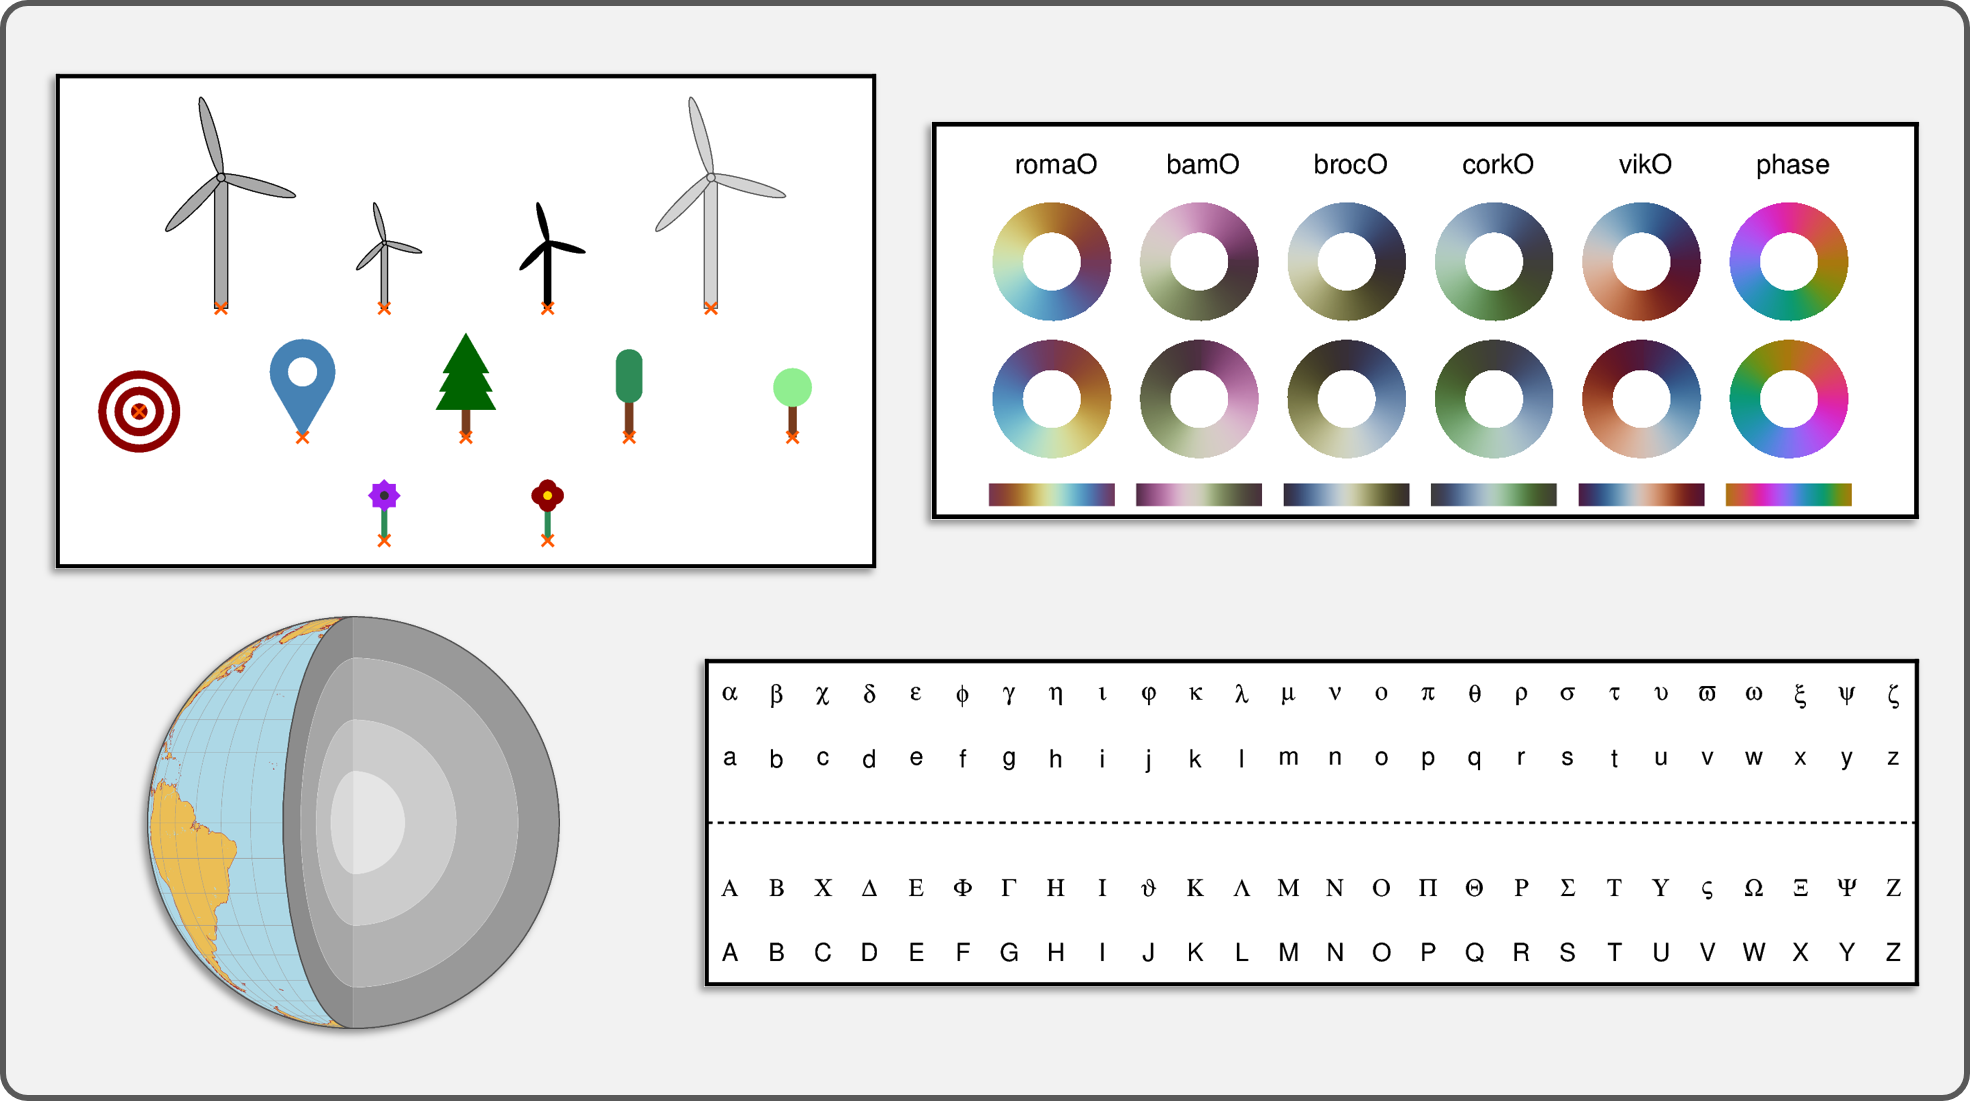
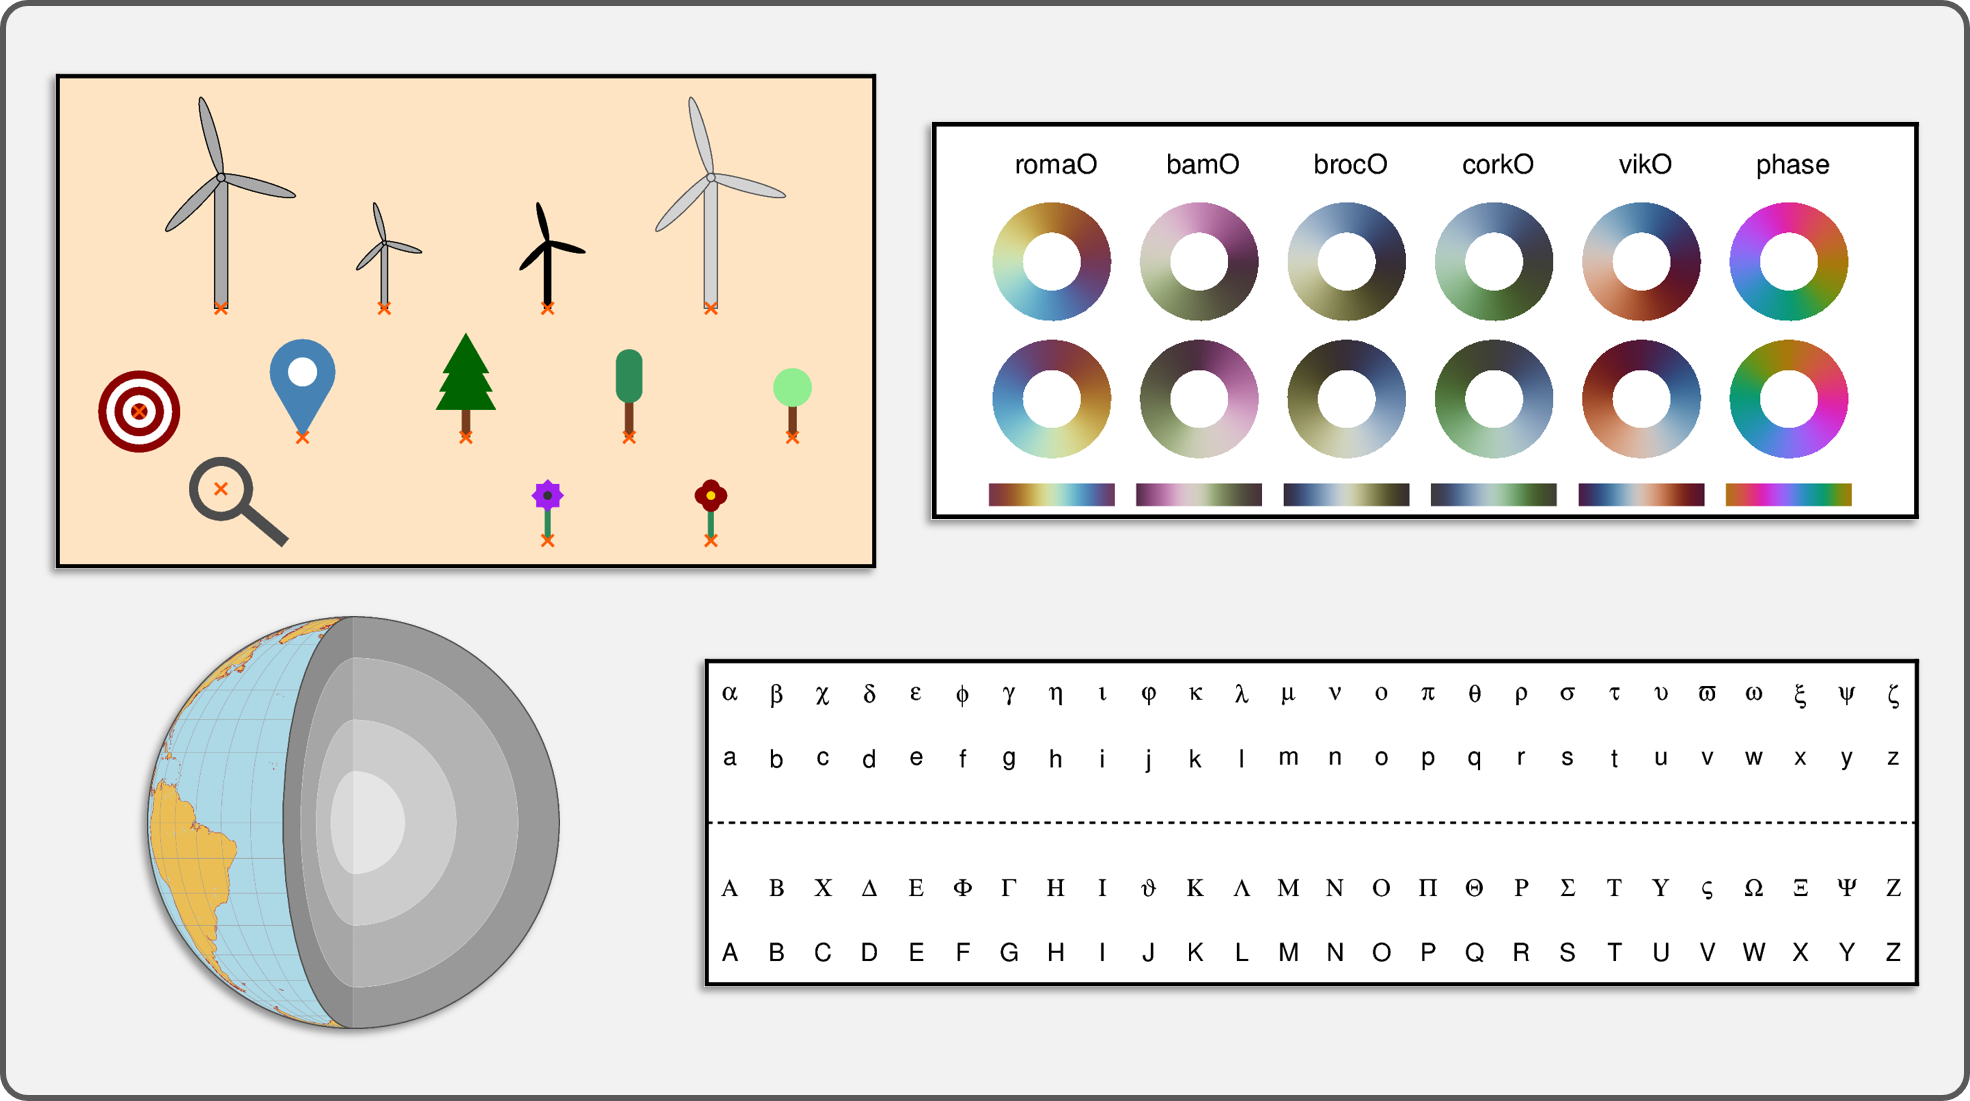
Add lense symbol, use Unix line endings

Changed region(s): [[0.031, 0.0618, 0.4645, 0.525]]

diff --git a/000_general_stuff/01_custom_symbols/custom_symbols.py b/000_general_stuff/01_custom_symbols/custom_symbols.py
@@ -11,6 +11,7 @@
 # History
 # - Created: 2024/05/16
 # - Updated: 2025/08/02 - Add more symbols
+# - Updated: 2025/08/13 - Add more symbols
 # -----------------------------------------------------------------------------
 # Versions
 # - PyGMT v0.16.0 -> https://www.pygmt.org/v0.16.0/ | https://www.pygmt.org/
@@ -27,7 +28,7 @@ import pygmt as gmt
 
 
 fig = gmt.Figure()
-fig.basemap(region=[-5, 5, -4, 5.5], projection="X10c/6c", frame=0)
+fig.basemap(region=[-5, 5, -4, 5.5], projection="X10c/6c", frame=[0, "+gbisque"])
 
 fig.plot(x=-3, y=1, style="kwindturbine_yf.def/1c", fill="darkgray", pen="black")
 fig.plot(x=-1, y=1, style="kwindturbine_yf.def/0.5c", fill="darkgray", pen="black")
@@ -40,13 +41,15 @@ fig.plot(x=0, y=-1.5, style="kpinetree_yf.def/1c", fill="darkgreen")
 fig.plot(x=2, y=-1.5, style="kpoplar_yf.def/1c", fill="seagreen")
 fig.plot(x=4, y=-1.5, style="ktree_circle_yf.def/1c", fill="lightgreen")
 
-fig.plot(x=-1, y=-3.5, style="kflower_square_yf.def/1c", fill="purple")
-fig.plot(x=1, y=-3.5, style="kflower_circle_yf.def/1c", fill="darkred")
+fig.plot(x=1, y=-3.5, style="kflower_square_yf.def/1c", fill="purple")
+fig.plot(x=3, y=-3.5, style="kflower_circle_yf.def/1c", fill="darkred")
+
+fig.plot(x=-3, y=-2.5, style="klense_yf.def/1.5c", pen="3p,gray30")
 
 # Mark plotting points
 fig.plot(
-    x=[-3, -1, 1, 3, -4, -2, 0, 2, 4, -1, 1],
-    y=[1, 1, 1, 1, -1, -1.5, -1.5, -1.5, -1.5, -3.5, -3.5],
+    x=[-3, -1, 1, 3, -4, -2, 0, 2, 4, -3, 1, 3],
+    y=[1, 1, 1, 1, -1, -1.5, -1.5, -1.5, -1.5, -2.5, -3.5, -3.5],
     style="x0.2c",
     fill="255/90/0",
 )
